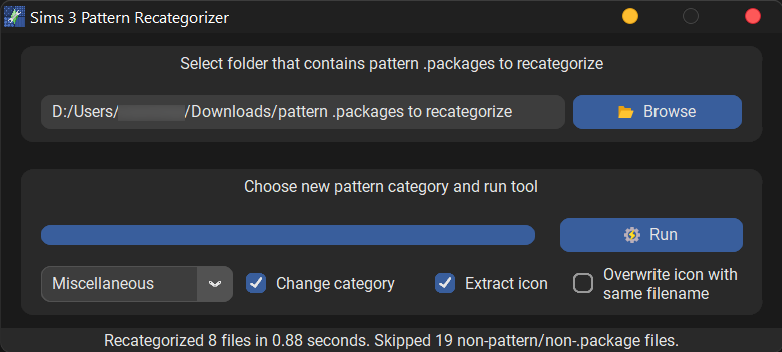
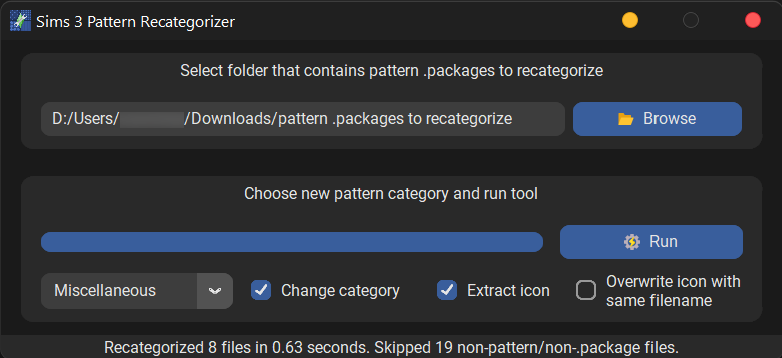
Update ProgramGUI
- Change category grid for row 2 to 4 columns

- Disable category_menu if change_category is unchecked

- Change ComboBox to OptionMenu so that typing is disallowed

diff --git a/ProgramGUI.py b/ProgramGUI.py
@@ -103,6 +103,12 @@ class App(ctk.CTk):
                     self.status_update.set(
                         f"Completed extracting ICONs from {completed_files} files in {time_taken:.2f} seconds.")
 
+        def change_category_callback():
+            if self.change_category.get():
+                self.category_menu.configure(state=tk.NORMAL)
+            else:
+                self.category_menu.configure(state=tk.DISABLED)
+
         def extract_icon_callback():
             if self.extract_icon.get():
                 self.overwrite_checkbox.configure(state=tk.NORMAL)
@@ -173,7 +179,7 @@ class App(ctk.CTk):
 
         self.path_btn = ctk.CTkButton(
             master=self.row_1,
-            text="Browse",
+            text="Browse", text_color="white",
             image=self.open_icon, command=get_folder_path_callback, width=100)
         self.path_btn.grid(row=1, column=1, sticky='EW', padx=(0, 15), pady=10)
 
@@ -181,48 +187,51 @@ class App(ctk.CTk):
 
         self.row_2.rowconfigure(0, weight=1)
         self.row_2.rowconfigure(1, weight=1)
-        self.row_2.columnconfigure(0, weight=1)
-        self.row_2.columnconfigure(9, weight=1)
+        self.row_2.columnconfigure((0, 1, 2), weight=3)
+        self.row_2.columnconfigure(3, weight=1)
 
         self.tool_label = ctk.CTkLabel(self.row_2, text=self.TOOL_LABEL)
-        self.tool_label.grid(row=0, column=0, sticky=tk.N, columnspan=10)
+        self.tool_label.grid(row=0, column=0, sticky=tk.N, columnspan=4)
 
         self.progress_bar = ctk.CTkProgressBar(self.row_2, height=15)
         self.progress_bar.grid(row=1, column=0, padx=(
-            15, 10), sticky='we', columnspan=9, pady=(10, 0))
+            15, 10), sticky='we', columnspan=3, pady=(10, 0))
         self.progress_bar.set(0)
 
         # Creating a photoimage object to use image
         self.run_icon = tk.PhotoImage(file=r"assets/energy.png")
 
-        self.run_btn = ctk.CTkButton(self.row_2, text="Run",
+        self.run_btn = ctk.CTkButton(self.row_2, text="Run", text_color="white",
                                      image=self.run_icon, command=run_program)
-        self.run_btn.grid(row=1, column=9, sticky=tk.E,
+        self.run_btn.grid(row=1, column=3, sticky=tk.E,
                           padx=(0, 15), pady=(10, 0))
 
-        self.category_menu = ctk.CTkComboBox(
-            self.row_2, values=self.CATEGORIES, border_width=1)
+        self.category_menu = ctk.CTkOptionMenu(
+            self.row_2, values=self.CATEGORIES, 
+            fg_color=("white", "gray24"), button_color=("gray70", "gray32"),
+            button_hover_color=("#6E7174", "#7A848D"))
         self.category_menu.grid(
             row=2, column=0, sticky='we', padx=(15, 10), pady=10)
 
         self.change_category_checkbox = ctk.CTkCheckBox(
             self.row_2, text="Change category", 
             border_width=1.5, width=16, height=16, corner_radius=5, pady=10, 
-            variable=self.change_category, onvalue=True, offvalue=False)
-        self.change_category_checkbox.grid(row=2, column=7, padx=(0, 30))
+            variable=self.change_category, onvalue=True, offvalue=False,
+            command=change_category_callback)
+        self.change_category_checkbox.grid(row=2, column=1, padx=(0, 20))
 
         self.extract_icon_checkbox = ctk.CTkCheckBox(
-            self.row_2, text="Extract icon", 
+            self.row_2, text="Extract icon",
             border_width=1.5, width=16, height=16, corner_radius=5, pady=10, 
             variable=self.extract_icon, onvalue=True, offvalue=False, 
             command=extract_icon_callback)
-        self.extract_icon_checkbox.grid(row=2, column=8)
+        self.extract_icon_checkbox.grid(row=2, column=2)
 
         self.overwrite_checkbox = ctk.CTkCheckBox(
             self.row_2, text="Overwrite icon with\nsame filename", 
             border_width=1.5, width=16, height=16, corner_radius=5, pady=10, 
             variable=self.overwrite, onvalue=True, offvalue=False)
-        self.overwrite_checkbox.grid(row=2, column=9)
+        self.overwrite_checkbox.grid(row=2, column=3)
 
         # ============ row_3 ============
 
